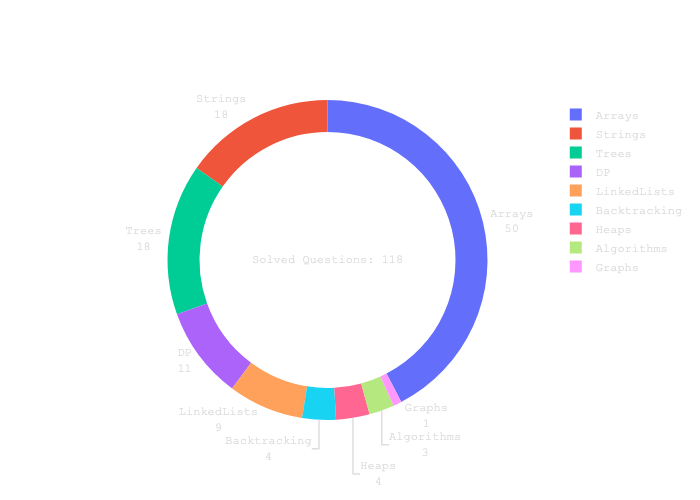
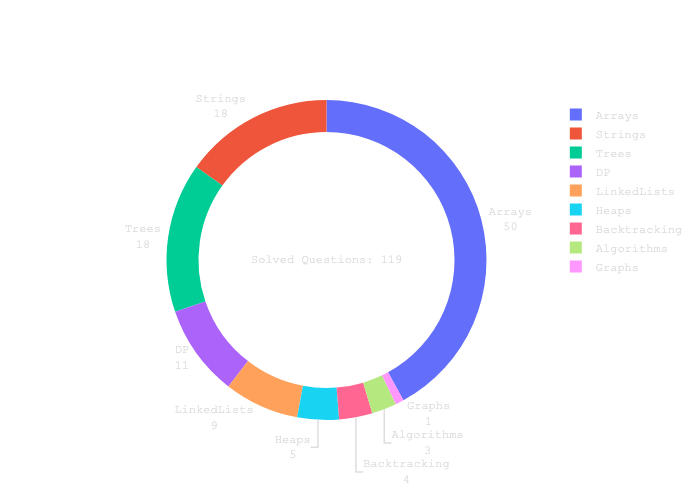
merge K lists

diff --git a/Heaps/MergeKSortedLists.py b/Heaps/MergeKSortedLists.py
@@ -1,0 +1,38 @@
+from heapq import heapify, heappop
+from typing import List, Optional
+from utils.ListNode import ListNode, generateList
+
+
+def mergeKLists(lists: List[Optional[ListNode]]) -> Optional[ListNode]:
+    heap = []
+
+    index = 0
+    for l in lists:
+        cur = l
+        while cur:
+            next = cur.next
+            cur.next = None
+            heap.append((cur.val, index, cur))
+            cur = next
+            index += 1
+
+    heapify(heap)
+    if not heap:
+        return
+    _, _, head = heappop(heap)
+    cur = head
+
+    while heap:
+        _, _, node = heappop(heap)
+        cur.next = node
+        cur = node
+    cur.next = None
+    return head
+
+
+print(
+    mergeKLists(
+        [generateList([1, 4, 5]), generateList([1, 3, 4]), generateList([2, 6])]
+    )
+)
+print(mergeKLists([]))
